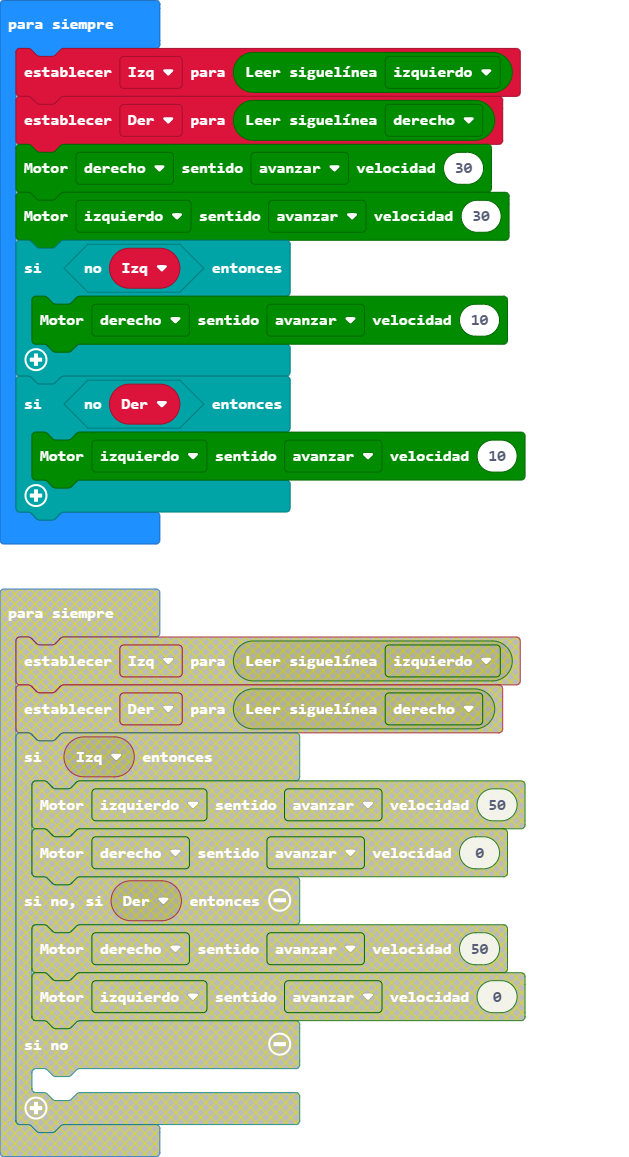
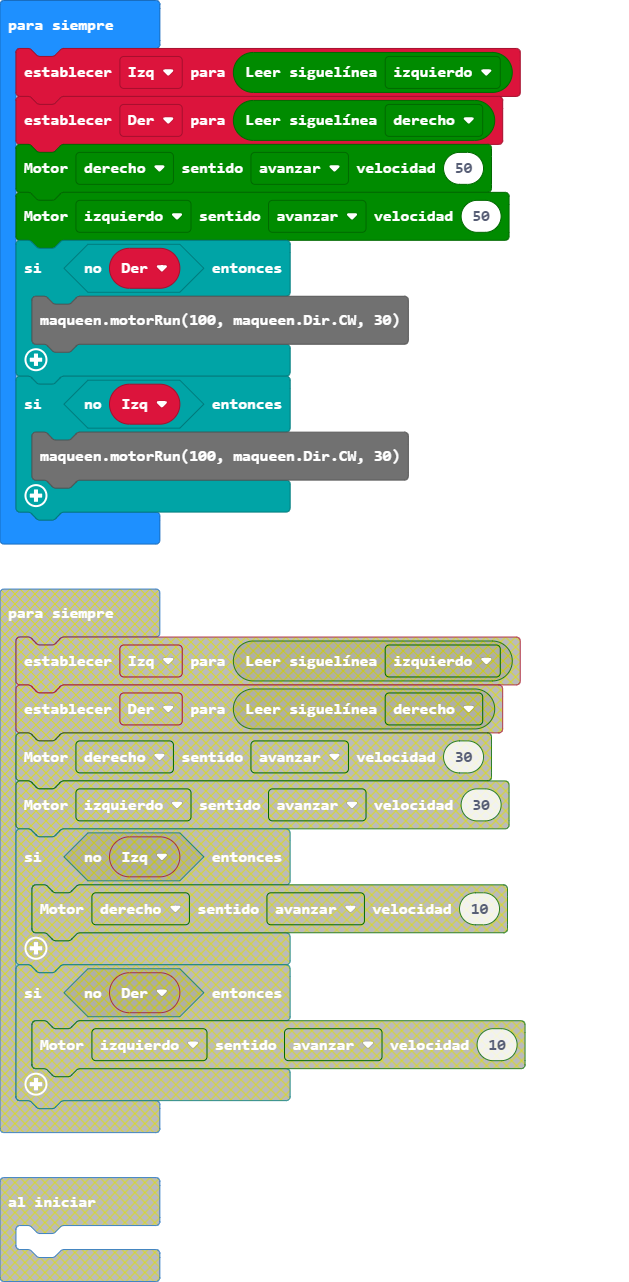
Actualizar pxt.json, main.blocks, main.ts, main.py

diff --git a/main.ts b/main.ts
@@ -1,14 +1,17 @@
 let Izq = 0
 let Der = 0
-basic.forever(function () {
+basic.forever(function on_forever() {
+    
     Izq = maqueen.readPatrol(maqueen.Patrol.PatrolLeft)
     Der = maqueen.readPatrol(maqueen.Patrol.PatrolRight)
-    maqueen.motorRun(maqueen.Motors.M2, maqueen.Dir.CW, 30)
-    maqueen.motorRun(maqueen.Motors.M1, maqueen.Dir.CW, 30)
-    if (!(Izq)) {
-        maqueen.motorRun(maqueen.Motors.M2, maqueen.Dir.CW, 10)
+    maqueen.motorRun(maqueen.Motors.M2, maqueen.Dir.CW, 50)
+    maqueen.motorRun(maqueen.Motors.M1, maqueen.Dir.CW, 50)
+    if (!Der) {
+        maqueen.motorRun(100, maqueen.Dir.CW, 30)
     }
-    if (!(Der)) {
-        maqueen.motorRun(maqueen.Motors.M1, maqueen.Dir.CW, 10)
+    
+    if (!Izq) {
+        maqueen.motorRun(100, maqueen.Dir.CW, 30)
     }
+    
 })

diff --git a/main.py b/main.py
@@ -1,0 +1,14 @@
+Izq = 0
+Der = 0
+
+def on_forever():
+    global Izq, Der
+    Izq = maqueen.read_patrol(maqueen.Patrol.PATROL_LEFT)
+    Der = maqueen.read_patrol(maqueen.Patrol.PATROL_RIGHT)
+    maqueen.motor_run(maqueen.Motors.M2, maqueen.Dir.CW, 50)
+    maqueen.motor_run(maqueen.Motors.M1, maqueen.Dir.CW, 50)
+    if not (Der):
+        maqueen.motor_run(100, maqueen.Dir.CW, 30)
+    if not (Izq):
+        maqueen.motor_run(100, maqueen.Dir.CW, 30)
+basic.forever(on_forever)
